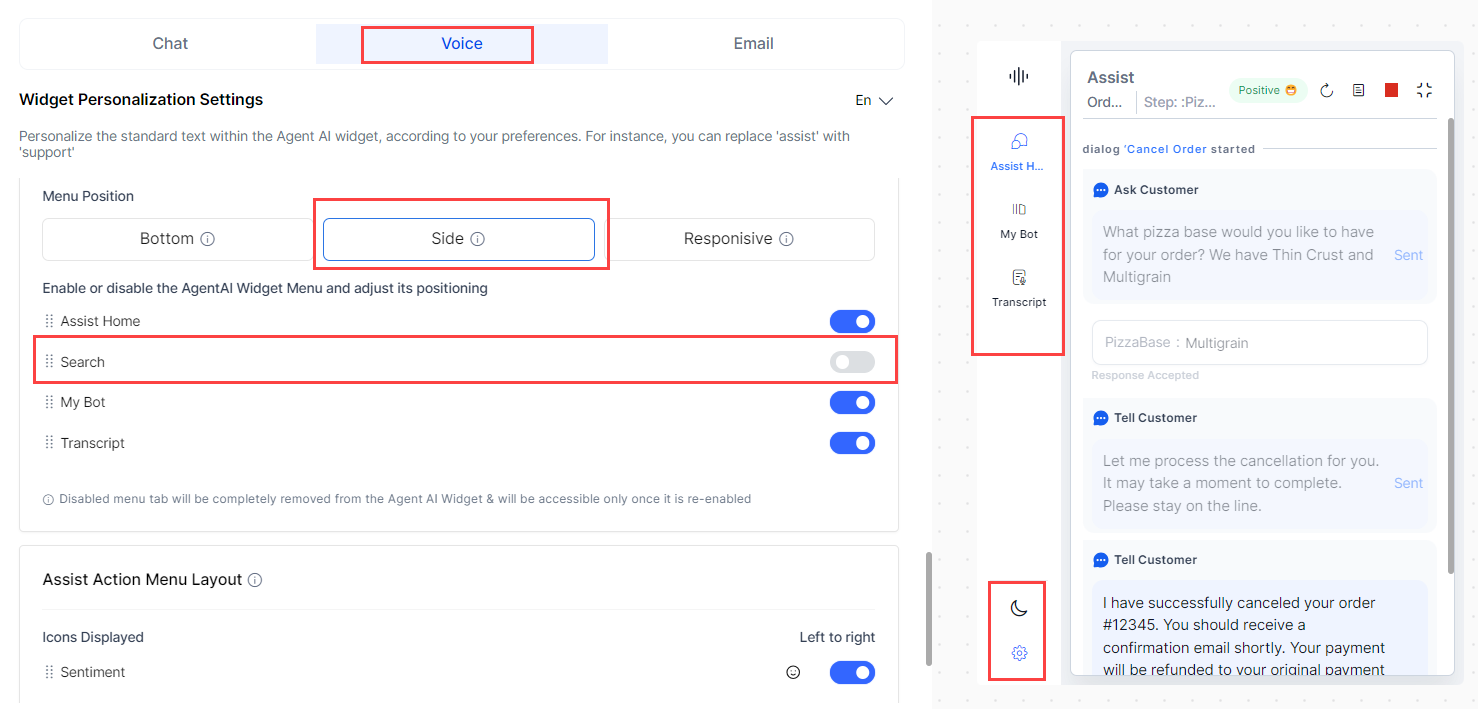
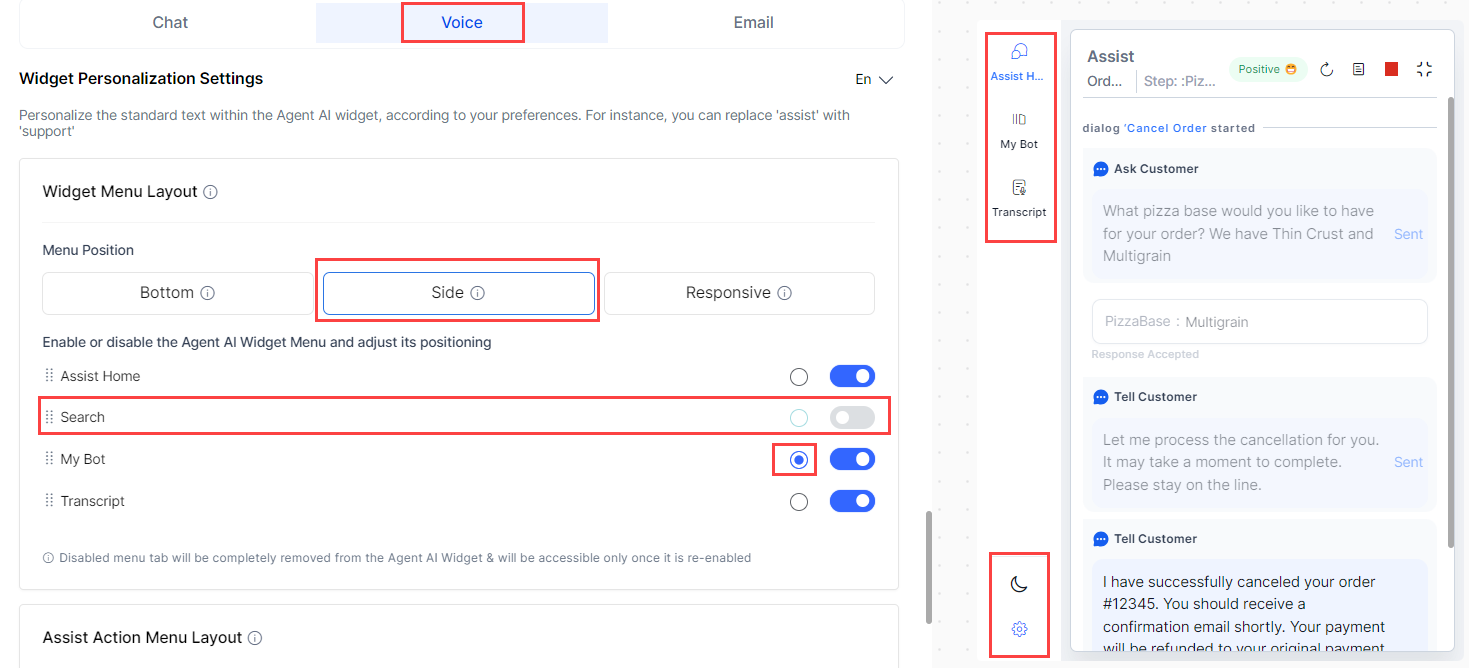
updating based on RN_3.4.1

diff --git a/docs/xo/agentai/configuration/widget-theming-layout-customization.md b/docs/xo/agentai/configuration/widget-theming-layout-customization.md
@@ -2,9 +2,6 @@
 
 Agent AI now enables channel-specific widget customization, letting users modify the widget's layout as required. As you customize the widget, you can preview the changes on the right half of the page.
 
-!!! note "Note"
-    The preview functionality is in the beta stage and will improve over the course of releases to portray a real widget experience. Currently, it should be viewed as a close reference.
-
 Steps to customize the widget’s layout
 
 1. Sign in to **Agent AI**.
@@ -58,7 +55,8 @@ This slider lets you control the opacity (visibility) of the **Sent** and **Copi
 
 ## Widget Menu Layout
 
-This section lets you enable or disable the Agent AI widget menus - **Assist Home**, **Search**, **My Bot**, and **Transcript** (for the Voice channel). You can position the menus at the bottom or the side by clicking the **Bottom** or **Side** options at the top or shuffle the menus with the drag-and-drop action. To automatically position the menus based on the pixel level, select the **Responsive** option. If the pixel size is less than 600, the menus move to the bottom, and for more than 600, the menus move to the left. The following screenshot shows a disabled **Search** menu, **Side** positioning of the enabled menus, and the shuffled **Assist Home** menu with the **My Bot** menu:  
+This section lets you enable or disable the Agent AI widget menus – **Assist Home**, **Search**, **My Bot**, and **Transcript** (for the Voice channel) – and select a landing tab. You can position the menus at the bottom or the side by clicking the **Bottom** or **Side** options at the top or shuffle the menus with the drag-and-drop action. To automatically position the menus based on the pixel level, select the **Responsive** option; If the pixel size is less than 600, the menus move to the bottom, and for more than 600, the menus move to the left. The following screenshot shows a disabled **Search** menu, **Side** positioning of the enabled menus, My Bot tab marked as the landing tab, and the shuffled **Assist Home** menu with the **My Bot** menu:
+  
 <img src="../widget-theming-layout-customization/widget-menu-layout-7.png" alt="widget-menu-layout" title="widget-menu-layout" style="border: 1px solid gray; zoom:80%;">
 
 The disabled menus do not appear on the widget unless you enable them back.
